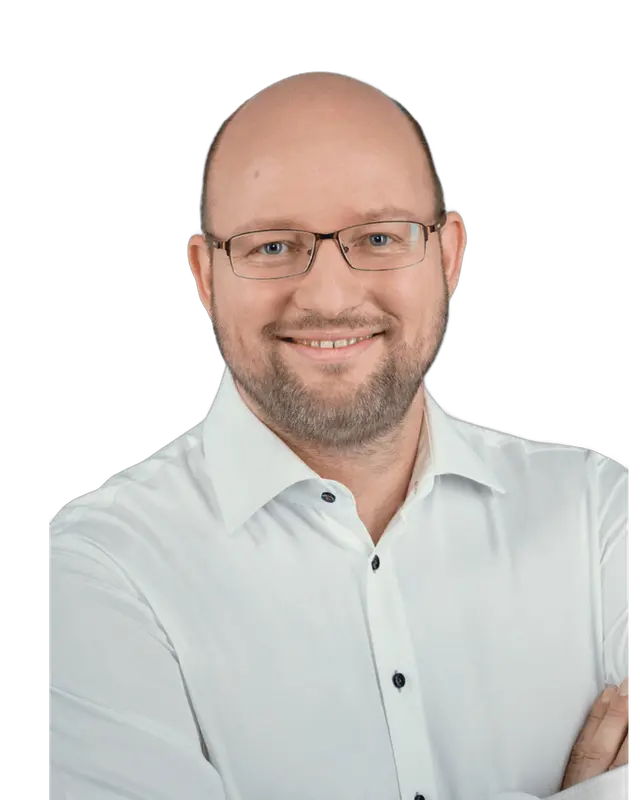
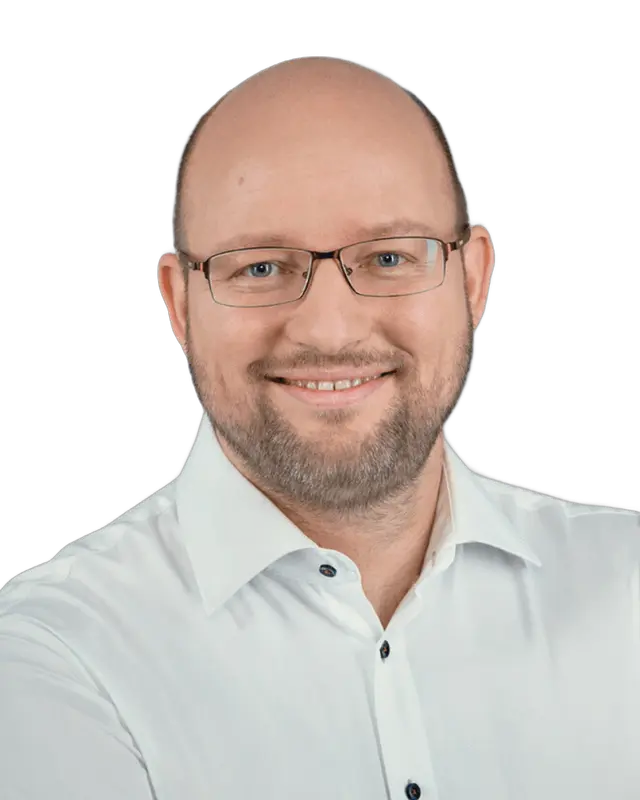
Bündige Spalten und einheitliche Abstände auf allen Seiten; überall weiße Schrift auf Grün (#b4c800 unverändert); Fotos randbündig freigestellt; Nav-Umbruch bei 1180px
Claude-Session: https://claude.ai/code/session_01To8PypW9uZhfjcxqBRQiJB

diff --git a/index.html b/index.html
@@ -75,13 +75,13 @@ permalink: "/index.html"
 .orb-hint{margin-top:1.2rem;text-align:center;font-size:.95rem;font-weight:700;color:var(--muted)}
 
 /* Situation */
-.q-grid{display:grid;grid-template-columns:repeat(3,1fr);gap:1.1rem}
-.q-card{display:flex;gap:1rem;align-items:flex-start;background:#fff;border:1px solid var(--line);border-radius:var(--r);padding:1.5rem;box-shadow:var(--sh-sm);transition:transform .35s var(--ease),box-shadow .35s,border-color .3s}
+.q-grid{display:grid;grid-template-columns:repeat(3,1fr);gap:1.4rem}
+.q-card{display:flex;gap:1rem;align-items:center;background:#fff;border:1px solid var(--line);border-radius:var(--r);padding:1.5rem;box-shadow:var(--sh-sm);transition:transform .35s var(--ease),box-shadow .35s,border-color .3s}
 .q-card:hover{transform:translateY(-5px) rotate(-.4deg);box-shadow:var(--sh);border-color:var(--g200)}
-.q-card i{flex-shrink:0;width:44px;height:44px;border-radius:14px;background:var(--g);color:var(--ink);font-style:normal;font-weight:800;font-size:1.4rem;display:flex;align-items:center;justify-content:center}
+.q-card i{flex-shrink:0;width:44px;height:44px;border-radius:14px;background:var(--g);color:#fff;font-style:normal;font-weight:800;font-size:1.4rem;display:flex;align-items:center;justify-content:center}
 .q-card:nth-child(3n+2) i{background:var(--gl)}
 .q-card:nth-child(3n) i{background:var(--amber)}
-.q-card p{font-size:1.06rem;color:var(--ink);font-weight:600;line-height:1.5;padding-top:.45rem}
+.q-card p{font-size:1.06rem;color:var(--ink);font-weight:600;line-height:1.5}
 
 /* Vorteile */
 .adv{display:grid;grid-template-columns:repeat(3,1fr);gap:1.4rem}
@@ -90,14 +90,14 @@ permalink: "/index.html"
 .adv .sn-card>*{position:relative;z-index:1}
 
 /* Vorgehen */
-.vg-tabs{display:grid;grid-template-columns:repeat(4,1fr);gap:1rem;margin-bottom:1.6rem;position:relative}
+.vg-tabs{display:grid;grid-template-columns:repeat(4,1fr);gap:1.4rem;margin-bottom:1.4rem;position:relative}
 .vg-tab{position:relative;display:flex;align-items:center;gap:.9rem;padding:1.1rem 1.2rem;background:#fff;border:2px solid var(--line);border-radius:var(--r);cursor:pointer;text-align:left;transition:all .35s var(--ease);overflow:hidden}
 .vg-tab .n{flex-shrink:0;width:50px;height:50px;border-radius:15px;background:var(--g100);color:var(--gdd);font-weight:800;font-size:1.2rem;display:flex;align-items:center;justify-content:center;transition:all .35s var(--ease)}
 .vg-tab b{font-size:1.05rem;color:var(--ink);line-height:1.2}
 .vg-tab small{display:block;font-size:.85rem;color:var(--muted);font-weight:600}
 .vg-tab::after{content:'';position:absolute;left:0;bottom:0;height:4px;width:100%;background:var(--g);transform:scaleX(0);transform-origin:left}
-.vg-tab.active{border-color:var(--g);box-shadow:var(--sh);transform:translateY(-3px)}
-.vg-tab.active .n{background:var(--g);color:var(--ink);transform:rotate(-6deg)}
+.vg-tab.active{border-color:var(--g);box-shadow:var(--sh)}
+.vg-tab.active .n{background:var(--g);color:#fff;transform:rotate(-6deg)}
 .vg-tab.active.run::after{animation:vgp 7s linear forwards}
 @keyframes vgp{to{transform:scaleX(1)}}
 .vorg-panel{display:none;grid-template-columns:1fr 1fr;gap:clamp(1.5rem,4vw,3rem);align-items:center;background:#fff;border:1px solid var(--line);border-radius:var(--r-lg);padding:clamp(1.8rem,4vw,3rem);box-shadow:var(--sh);position:relative;overflow:hidden}
@@ -105,7 +105,7 @@ permalink: "/index.html"
 @keyframes vgIn{from{opacity:0;transform:translateY(12px)}to{opacity:1;transform:none}}
 .vorg-big-num{position:absolute;right:1.5rem;bottom:-1.5rem;font-size:11rem;font-weight:800;color:var(--g50);line-height:1;pointer-events:none}
 .vorg-panel-card,.vorg-panel-left>*:not(.vorg-big-num){position:relative;z-index:1}
-.vorg-panel-badge{display:inline-block;font-size:.8rem;font-weight:800;letter-spacing:.06em;text-transform:uppercase;color:var(--ink);background:var(--g);padding:.3rem .85rem;border-radius:999px;margin-bottom:1rem}
+.vorg-panel-badge{display:inline-block;font-size:.8rem;font-weight:800;letter-spacing:.06em;text-transform:uppercase;color:#fff;background:var(--g);padding:.3rem .85rem;border-radius:999px;margin-bottom:1rem}
 .vorg-panel-title{font-size:clamp(1.6rem,3vw,2.2rem);font-weight:800;color:var(--ink);line-height:1.15;margin-bottom:1rem}
 .vorg-panel-desc{font-size:1.08rem;line-height:1.75;color:var(--text)}
 .vorg-panel-card{background:var(--g50);border:1px solid var(--g100);border-radius:var(--r);padding:1.4rem}
@@ -116,17 +116,18 @@ permalink: "/index.html"
 .vorg-feature-ico svg{width:20px;height:20px;stroke:var(--gd);fill:none;stroke-width:1.9;stroke-linecap:round;stroke-linejoin:round}
 .vorg-feature-text strong{display:block;font-size:1.02rem;color:var(--ink);line-height:1.3}
 .vorg-feature-text span{font-size:.93rem;color:var(--muted);line-height:1.45}
-.vorg-highlight{display:flex;align-items:center;gap:.6rem;margin-top:1.1rem;background:var(--g);color:var(--ink);font-weight:800;font-size:.98rem;padding:.8rem 1rem;border-radius:14px}
+.vorg-highlight{display:flex;align-items:center;gap:.6rem;margin-top:1.1rem;background:var(--g);color:#fff;font-weight:800;font-size:.98rem;padding:.8rem 1rem;border-radius:14px}
 .vorg-highlight svg{width:20px;height:20px;stroke:var(--ink);fill:none;stroke-width:2.2;flex-shrink:0}
 
 /* Team */
-.tl{display:grid;grid-template-columns:320px 1fr;background:linear-gradient(120deg,#fff 40%,var(--g100));border:1px solid var(--g200);border-radius:var(--r-lg);overflow:hidden;box-shadow:var(--sh);margin-bottom:1.6rem}
+.tl{display:grid;grid-template-columns:320px 1fr;background:linear-gradient(120deg,#fff 40%,var(--g100));border:1px solid var(--g200);border-radius:var(--r-lg);overflow:hidden;box-shadow:var(--sh);margin-bottom:1.4rem}
 .tl-photo{position:relative;min-height:340px;background:linear-gradient(160deg,var(--g),var(--gl))}
-.tl-photo img{position:absolute;inset:0;width:100%;height:100%;object-fit:cover;object-position:top}
+.tl-photo img{position:absolute;inset:0;width:100%;height:100%;object-fit:cover;object-position:center bottom}
 .tl-info{padding:clamp(1.8rem,4vw,3rem);display:flex;flex-direction:column;justify-content:center}
 .tl-info .sn-person-name{font-size:2rem}
 .tl-info p{font-size:1.08rem;line-height:1.75;max-width:560px}
-.team-g{display:grid;grid-template-columns:repeat(3,1fr);gap:1.3rem}
+.tl-info .sn-btns{margin-top:1.6rem}
+.team-g{display:grid;grid-template-columns:repeat(3,1fr);gap:1.4rem}
 .tm{position:relative;display:block;border-radius:var(--r);overflow:hidden;background:#fff;border:1px solid var(--line);box-shadow:var(--sh-sm);transition:transform .4s var(--ease),box-shadow .4s}
 .tm:hover{transform:translateY(-7px);box-shadow:var(--sh-lg)}
 .tm-img{position:relative;aspect-ratio:4/4.2;overflow:hidden;background:linear-gradient(160deg,var(--g200),var(--g100))}
@@ -443,7 +444,7 @@ permalink: "/index.html"
         <div class="sn-person-name">{{ T.lohne.name }}</div>
         <div class="sn-person-role">{{ T.lohne.role }}</div>
         <p>Ihr zentraler Ansprechpartner. Er koordiniert das gesamte Netzwerk.</p>
-        <div class="sn-btns" style="margin-top:1.6rem"><a href="/kontakt" class="sn-btn">Gespräch vereinbaren <svg viewBox="0 0 24 24"><path d="M5 12h14M13 6l6 6-6 6"/></svg></a></div>
+        <div class="sn-btns"><a href="/kontakt" class="sn-btn">Gespräch vereinbaren <svg viewBox="0 0 24 24"><path d="M5 12h14M13 6l6 6-6 6"/></svg></a></div>
       </div>
     </div>
     <div class="team-g">

diff --git a/kontakt.html b/kontakt.html
@@ -22,7 +22,7 @@ permalink: "/kontakt.html"
 .ct-net-lines{position:absolute;inset:0;width:100%;height:100%;overflow:visible}
 .ct-net-lines line{stroke:var(--gl);stroke-width:.5;stroke-linecap:round;stroke-dasharray:1.4 1.6;animation:ctDash 6s linear infinite}
 @keyframes ctDash{to{stroke-dashoffset:-12}}
-.ct-net-center{position:absolute;left:50%;top:50%;width:30%;aspect-ratio:1;translate:-50% -50%;border-radius:30%;background:linear-gradient(145deg,#c9da1f,var(--g) 55%,#a8bc00);color:var(--ink);display:flex;flex-direction:column;align-items:center;justify-content:center;gap:.35rem;box-shadow:0 22px 50px rgba(150,170,0,.42),inset 0 -5px 0 rgba(0,0,0,.07);z-index:2}
+.ct-net-center{position:absolute;left:50%;top:50%;width:30%;aspect-ratio:1;translate:-50% -50%;border-radius:30%;background:linear-gradient(145deg,#c9da1f,var(--g) 55%,#a8bc00);color:#fff;display:flex;flex-direction:column;align-items:center;justify-content:center;gap:.35rem;box-shadow:0 22px 50px rgba(150,170,0,.42),inset 0 -5px 0 rgba(0,0,0,.07);z-index:2}
 .ct-net-center::after{content:'';position:absolute;inset:-12px;border-radius:34%;border:2px solid rgba(180,200,0,.35);animation:ctPulse 3.2s ease-in-out infinite}
 @keyframes ctPulse{0%,100%{transform:scale(1);opacity:.9}50%{transform:scale(1.08);opacity:0}}
 .ct-net-center svg{width:34%;height:auto;stroke:var(--ink);fill:none;stroke-width:1.9;stroke-linecap:round;stroke-linejoin:round}
@@ -34,7 +34,7 @@ permalink: "/kontakt.html"
 .ct-node:nth-child(odd) img{border-radius:50%}
 .ct-node--lead{width:21%;margin:-10.5% 0 0 -10.5%}
 .ct-node--lead img{border-color:var(--g);border-width:5px}
-.ct-node--lead span{position:absolute;left:50%;bottom:-.7rem;translate:-50% 0;white-space:nowrap;font-size:.72rem;font-weight:800;letter-spacing:.04em;color:var(--ink);background:var(--g);padding:.18rem .6rem;border-radius:999px;box-shadow:var(--sh-sm)}
+.ct-node--lead span{position:absolute;left:50%;bottom:-.7rem;translate:-50% 0;white-space:nowrap;font-size:.72rem;font-weight:800;letter-spacing:.04em;color:#fff;background:var(--g);padding:.18rem .6rem;border-radius:999px;box-shadow:var(--sh-sm)}
 .ct-net-tile{position:absolute;border-radius:28%;transform:rotate(45deg);z-index:1}
 
 /* ── Hauptbereich ── */
@@ -73,7 +73,7 @@ permalink: "/kontakt.html"
 .ct-form-head{display:flex;justify-content:space-between;align-items:flex-start;gap:1rem;margin-bottom:1.6rem}
 .ct-form-title{font-size:clamp(1.6rem,3vw,2.1rem);font-weight:800;color:var(--ink);line-height:1.1;letter-spacing:-.02em;margin-bottom:.5rem}
 .ct-form-sub{font-size:1.02rem;color:var(--text);line-height:1.6}
-.ct-free{flex-shrink:0;display:flex;flex-direction:column;align-items:center;justify-content:center;width:86px;height:86px;border-radius:26px;background:var(--g);color:var(--ink);font-weight:800;text-align:center;line-height:1.05;font-size:.82rem;transform:rotate(6deg);box-shadow:0 12px 26px rgba(180,200,0,.4)}
+.ct-free{flex-shrink:0;display:flex;flex-direction:column;align-items:center;justify-content:center;width:86px;height:86px;border-radius:26px;background:var(--g);color:#fff;font-weight:800;text-align:center;line-height:1.05;font-size:.82rem;transform:rotate(6deg);box-shadow:0 12px 26px rgba(180,200,0,.4)}
 .ct-free b{font-size:1.3rem}
 
 .ct-form{display:flex;flex-direction:column;gap:1.1rem}
@@ -157,6 +157,9 @@ permalink: "/kontakt.html"
   .ct-hero-pills .ct-pill{font-size:.9rem}
 }
 @media (prefers-reduced-motion:reduce){.ct-node,.ct-net-lines line,.ct-net-center::after{animation:none}}
+/* Weiße Schrift auf Grün (Kundenentscheidung) */
+.ct-net-center small{color:rgba(255,255,255,.92)}
+.ct-net-center svg{stroke:#fff}
 </style>
 
 <!-- HERO -->

diff --git a/investment-aif.html b/investment-aif.html
@@ -8,15 +8,18 @@ permalink: "/investment-aif.html"
 {%- set p = site.team.scholl -%}
 <style>
 /* Seitenspezifisch: Investment & AIF (Präfix iv-) */
-.iv-proof{display:grid;grid-template-columns:1fr 1fr 1.15fr;gap:1.4rem;margin-top:1.4rem}
-.iv-big{position:relative;overflow:hidden;border-radius:var(--r);padding:2rem 1.9rem;background:linear-gradient(150deg,var(--g) 0%,var(--gl) 100%);color:var(--ink);box-shadow:0 18px 40px rgba(150,170,0,.25);transition:transform .35s var(--ease)}
+.iv-proof{display:grid;grid-template-columns:repeat(3,1fr);gap:1.4rem;margin-top:1.4rem}
+.iv-big{display:flex;flex-direction:column;justify-content:center;position:relative;overflow:hidden;border-radius:var(--r);padding:2rem 1.9rem;background:linear-gradient(150deg,var(--g) 0%,var(--gl) 100%);color:#fff;box-shadow:0 18px 40px rgba(150,170,0,.25);transition:transform .35s var(--ease)}
 .iv-big:hover{transform:translateY(-6px)}
 .iv-big::after{content:'';position:absolute;right:-26px;bottom:-26px;width:110px;height:110px;border-radius:28%;transform:rotate(45deg);background:rgba(255,255,255,.35)}
 .iv-big>*{position:relative;z-index:1}
 .iv-big small{display:block;font-size:.82rem;font-weight:800;letter-spacing:.08em;text-transform:uppercase;color:var(--gdd);margin-bottom:.8rem}
 .iv-big b{display:block;font-size:clamp(2.8rem,5vw,3.8rem);font-weight:800;line-height:1;letter-spacing:-.03em}
 .iv-big span{display:block;margin-top:.5rem;font-size:1.1rem;font-weight:700}
-.iv-split{display:grid;grid-template-columns:1fr 1fr;gap:clamp(2rem,5vw,4.5rem);align-items:start}
+.iv-split{display:grid;grid-template-columns:1fr 1fr;gap:clamp(2rem,5vw,4.5rem);align-items:center}
+.iv-proof .sn-card{display:flex;flex-direction:column;justify-content:center}
+.iv-proof .sn-card .sn-ico{flex-shrink:0}
+.sn-person-body .sn-btns{margin-top:1.5rem}
 .iv-split .sn-lead+.sn-lead{margin-top:1.1rem}
 .iv-panel{background:#fff;border:1px solid var(--line);border-radius:var(--r-lg);padding:2.2rem;box-shadow:var(--sh)}
 .iv-panel p{font-size:1.02rem;line-height:1.75;color:var(--text)}
@@ -30,6 +33,9 @@ permalink: "/investment-aif.html"
 .iv-quote cite img{width:52px;height:52px;border-radius:50%;object-fit:cover;object-position:top;border:3px solid var(--g100)}
 @media(max-width:900px){.iv-proof{grid-template-columns:1fr 1fr}.iv-proof .sn-card{grid-column:1/-1}.iv-split{grid-template-columns:1fr}}
 @media(max-width:620px){.iv-proof{grid-template-columns:1fr}.iv-panel{padding:1.6rem}}
+/* Weiße Schrift auf Grün (Kundenentscheidung) */
+.iv-big,.iv-big small,.iv-big b,.iv-big span{color:#fff}
+.iv-big{background:var(--g)}
 </style>
 <section class="sn-hero">
   {% include "hero-mosaic.njk" %}
@@ -130,7 +136,7 @@ permalink: "/investment-aif.html"
             <li>seit 2005 einer der TOP-Spezialisten der HORBACH Wirtschaftsberatung</li>
             <li>Familienmensch, Sportler und Musikliebhaber</li>
           </ul>
-          <div class="sn-btns" style="margin-top:1.5rem"><a href="/kontakt" class="sn-btn sn-btn--sm">Gespräch vereinbaren</a></div>
+          <div class="sn-btns"><a href="/kontakt" class="sn-btn sn-btn--sm">Gespräch vereinbaren</a></div>
         </div>
       </div>
     </div>

diff --git a/kapitalanlage-immobilie.html b/kapitalanlage-immobilie.html
@@ -23,7 +23,7 @@ permalink: "/kapitalanlage-immobilie.html"
 .ki-pic-frame{position:relative;z-index:1;border-radius:var(--r-lg);overflow:hidden;box-shadow:var(--sh-lg);min-height:500px;background:var(--g100)}
 .ki-pic-frame img{position:absolute;inset:0;width:100%;height:100%;object-fit:cover;transition:transform .8s var(--ease)}
 .ki-pic:hover .ki-pic-frame img{transform:scale(1.04)}
-.ki-chip{position:absolute;left:1.4rem;bottom:1.4rem;z-index:2;display:inline-flex;align-items:center;gap:.5rem;background:var(--g);color:var(--ink);font-size:.92rem;font-weight:800;padding:.6rem 1.1rem;border-radius:999px;box-shadow:0 10px 26px rgba(150,170,0,.35)}
+.ki-chip{position:absolute;left:1.4rem;bottom:1.4rem;z-index:2;display:inline-flex;align-items:center;gap:.5rem;background:var(--g);color:#fff;font-size:.92rem;font-weight:800;padding:.6rem 1.1rem;border-radius:999px;box-shadow:0 10px 26px rgba(150,170,0,.35)}
 .ki-badge{position:absolute;z-index:3;background:#fff;border:1px solid var(--line);border-radius:20px;padding:1rem 1.3rem;box-shadow:var(--sh);text-align:center;animation:snFloat 7s ease-in-out infinite}
 .ki-badge b{display:block;font-size:2rem;font-weight:800;color:var(--gd);line-height:1;letter-spacing:-.02em}
 .ki-badge span{display:block;margin-top:.3rem;font-size:.85rem;font-weight:700;color:var(--muted)}
@@ -136,7 +136,7 @@ permalink: "/kapitalanlage-immobilie.html"
 .ki-quote-person small{display:block;color:var(--gdd);font-weight:700;font-size:.92rem;text-align:left}
 
 /* Responsive */
-@media(max-width:1080px){.ki-calc-grid{grid-template-columns:1fr}.co-cards{grid-template-columns:repeat(2,1fr)}}
+@media(max-width:1200px){.ki-calc-grid{grid-template-columns:1fr}.co-cards{grid-template-columns:repeat(2,1fr)}}
 @media(max-width:900px){
   .ki-intro{grid-template-columns:1fr}
   .ki-pic-frame{min-height:340px}
@@ -424,7 +424,7 @@ permalink: "/kapitalanlage-immobilie.html"
 </section>
 
 <!-- ════════ ZITAT ════════ -->
-<section class="sn-sec sn-sec--tint" style="padding-top:clamp(5rem,9vw,7rem)">
+<section class="sn-sec sn-sec--tint">
   <div class="sn-wrap">
     <figure class="sn-quote rv">
       <p>Immobilien als Kapitalanlage: Ihr nachhaltiger Vermögensmultiplikator.</p>

diff --git a/optiplan.html b/optiplan.html
@@ -76,7 +76,7 @@ permalink: "/optiplan.html"
 .op-tab{display:inline-flex;align-items:center;justify-content:center;gap:.55rem;padding:.8rem 1.5rem;font-size:1rem;font-weight:800;color:var(--text);background:transparent;border:none;border-radius:999px;cursor:pointer;transition:background .25s,color .25s}
 .op-tab svg{width:19px;height:19px;stroke:var(--gd);fill:none;stroke-width:2.1;stroke-linecap:round;stroke-linejoin:round;flex-shrink:0}
 .op-tab:not(.active):hover{background:var(--g50);color:var(--gdd)}
-.op-tab.active{background:var(--g);color:var(--ink);box-shadow:0 8px 20px rgba(180,200,0,.35)}
+.op-tab.active{background:var(--g);color:#fff;box-shadow:0 8px 20px rgba(180,200,0,.35)}
 .op-tab.active svg{stroke:var(--ink)}
 .cbody{display:none}
 .cbody.active{display:grid;grid-template-columns:380px 1fr;gap:1.6rem;align-items:stretch}
@@ -183,6 +183,12 @@ permalink: "/optiplan.html"
   .op-pop-num{font-size:2.3rem}
   .op-pop-body{padding:1.4rem 1.3rem 1.6rem}
 }
+/* Weiße Schrift auf Grün (Kundenentscheidung) */
+.cresult .cr-lbl,.cresult .cr-val{color:#fff}
+.op-sz--good .op-sz-head,.op-sz--good .op-sz-lbl{color:#fff}
+.op-sz--good .op-sz-head svg{stroke:#fff}
+.cresult{background:var(--g)}
+.op-sz--good .op-sz-head{background:var(--g)}
 </style>
 
 <!-- HERO -->
@@ -366,7 +372,7 @@ permalink: "/optiplan.html"
 <!-- RECHNER -->
 <section class="sn-sec sn-sec--tint" id="rechner">
   <div class="sn-wrap">
-    <div class="sn-head sn-tc" style="margin-bottom:2rem">
+    <div class="sn-head sn-tc">
       <div class="sn-eyebrow rv">Interaktive Rechner</div>
       <h2 class="sn-h2 rv">Berechnen Sie <span class="sn-hl">Ihre Situation</span></h2>
       <p class="sn-lead rv">Vereinfachte Musterrechnungen zur Orientierung.</p>

diff --git a/finanzierung.html b/finanzierung.html
@@ -15,7 +15,7 @@ permalink: "/finanzierung.html"
 .fz-hero-duo small{font-size:.85rem;color:var(--gdd);font-weight:600}
 .fz-why{display:grid;grid-template-columns:.9fr 2fr;gap:1.4rem}
 .fz-big{display:flex;flex-direction:column;gap:1.4rem}
-.fz-stat{position:relative;overflow:hidden;flex:1;border-radius:var(--r);padding:2rem 1.9rem;background:linear-gradient(150deg,var(--g) 0%,var(--gl) 100%);color:var(--ink);box-shadow:0 18px 40px rgba(150,170,0,.25);display:flex;flex-direction:column;justify-content:flex-end}
+.fz-stat{position:relative;overflow:hidden;flex:1;border-radius:var(--r);padding:2rem 1.9rem;background:linear-gradient(150deg,var(--g) 0%,var(--gl) 100%);color:#fff;box-shadow:0 18px 40px rgba(150,170,0,.25);display:flex;flex-direction:column;justify-content:flex-end}
 .fz-stat--amber{background:linear-gradient(150deg,var(--amber) 0%,#f6d860 100%);box-shadow:0 18px 40px rgba(236,189,0,.22)}
 .fz-stat::after{content:'';position:absolute;right:-24px;top:-24px;width:100px;height:100px;border-radius:28%;transform:rotate(45deg);background:rgba(255,255,255,.35)}
 .fz-stat>*{position:relative;z-index:1}
@@ -35,6 +35,9 @@ permalink: "/finanzierung.html"
 .fz-persons .sn-check{margin-bottom:1.2rem}
 @media(max-width:900px){.fz-why{grid-template-columns:1fr}.fz-big{flex-direction:row}.fz-what,.fz-persons{grid-template-columns:1fr}}
 @media(max-width:620px){.fz-big{flex-direction:column}.fz-cards{grid-template-columns:1fr}.fz-hero-duo{border-radius:var(--r)}}
+/* Weiße Schrift auf Grün (Kundenentscheidung) */
+.fz-stat,.fz-stat b,.fz-stat strong,.fz-stat span{color:#fff}
+.fz-stat{background:var(--g)}
 </style>
 <section class="sn-hero">
   {% include "hero-mosaic.njk" %}

diff --git a/heilwesenberufe.html b/heilwesenberufe.html
@@ -13,7 +13,7 @@ permalink: "/heilwesenberufe.html"
 .hw-duo-box{background:#fff;border:1px solid var(--line);border-radius:var(--r);padding:1.8rem 1.4rem;text-align:center;box-shadow:var(--sh)}
 .hw-duo-box .sn-ico{margin:0 auto 1rem}
 .hw-duo-box b{display:block;font-size:1.2rem;color:var(--ink)}
-.hw-duo-plus{width:48px;height:48px;border-radius:14px;background:var(--g);color:var(--ink);font-size:1.8rem;font-weight:800;display:flex;align-items:center;justify-content:center;transform:rotate(45deg)}
+.hw-duo-plus{width:48px;height:48px;border-radius:14px;background:var(--g);color:#fff;font-size:1.8rem;font-weight:800;display:flex;align-items:center;justify-content:center;transform:rotate(45deg)}
 .hw-duo-plus span{transform:rotate(-45deg)}
 .hw-svc{display:grid;grid-template-columns:repeat(3,1fr);gap:1.4rem}
 .hw-svc-item{display:flex;align-items:center;gap:1.1rem;background:#fff;border:1px solid var(--line);border-radius:var(--r);padding:1.3rem 1.4rem;box-shadow:var(--sh-sm);transition:transform .35s var(--ease),box-shadow .35s,border-color .3s}

diff --git a/ruhestandsplanung.html b/ruhestandsplanung.html
@@ -6,6 +6,10 @@ permalink: "/ruhestandsplanung.html"
 ---
 {%- set currentTheme = "ruhestand" -%}
 {%- set p = site.team.lohne -%}
+<style>
+/* Seitenspezifisch: Abstand Button in der Personen-Karte (statt Inline-Style) */
+.sn-person-body .sn-btns{margin-top:1.5rem}
+</style>
 <section class="sn-hero">
   {% include "hero-mosaic.njk" %}
   <div class="sn-wrap">
@@ -65,7 +69,7 @@ permalink: "/ruhestandsplanung.html"
           <div class="sn-person-name">{{ p.name }}</div>
           <div class="sn-person-role">{{ p.role }}</div>
           <p>Ihr zentraler Ansprechpartner für die Ruhestandsplanung. Er koordiniert das Netzwerk und holt passende Spezialisten hinzu.</p>
-          <div class="sn-btns" style="margin-top:1.5rem"><a href="/kontakt" class="sn-btn sn-btn--sm">Gespräch vereinbaren</a></div>
+          <div class="sn-btns"><a href="/kontakt" class="sn-btn sn-btn--sm">Gespräch vereinbaren</a></div>
         </div>
       </div>
     </div>

diff --git a/finanzanalysen.html b/finanzanalysen.html
@@ -24,6 +24,10 @@ permalink: "/finanzanalysen.html"
 .fa-core svg{width:30px;height:30px;stroke:var(--ink);fill:none;stroke-width:2;stroke-linecap:round;stroke-linejoin:round;margin-bottom:.35rem}
 @media(max-width:900px){.fa-proc{grid-template-columns:1fr}.fa-proc-l{position:static}.fa-hub{grid-template-columns:1fr;gap:1.2rem}.fa-hub .sn-card:nth-child(odd){text-align:left}.fa-hub .sn-card{min-height:0}.fa-core{position:relative;left:auto;top:auto;margin:0 auto 1.6rem;order:-1}}
 @media(max-width:620px){.fa-proc .sn-steps{grid-template-columns:1fr}}
+/* Weiße Schrift auf Grün (Kundenentscheidung) */
+.fa-core,.fa-core *{color:#fff}
+.fa-core svg{stroke:#fff}
+.fa-core{background:var(--g)}
 </style>
 <section class="sn-hero">
   {% include "hero-mosaic.njk" %}

diff --git a/betriebliche-versorgung.html b/betriebliche-versorgung.html
@@ -148,6 +148,8 @@ permalink: "/betriebliche-versorgung.html"
   .bv-chip{font-size:.88rem}
   .bv-visual-stat strong{font-size:1.6rem}
 }
+/* Weiße Schrift auf Grün (Kundenentscheidung) */
+.bv-seg-bav{color:#fff}
 </style>
 
 <!-- HERO -->
